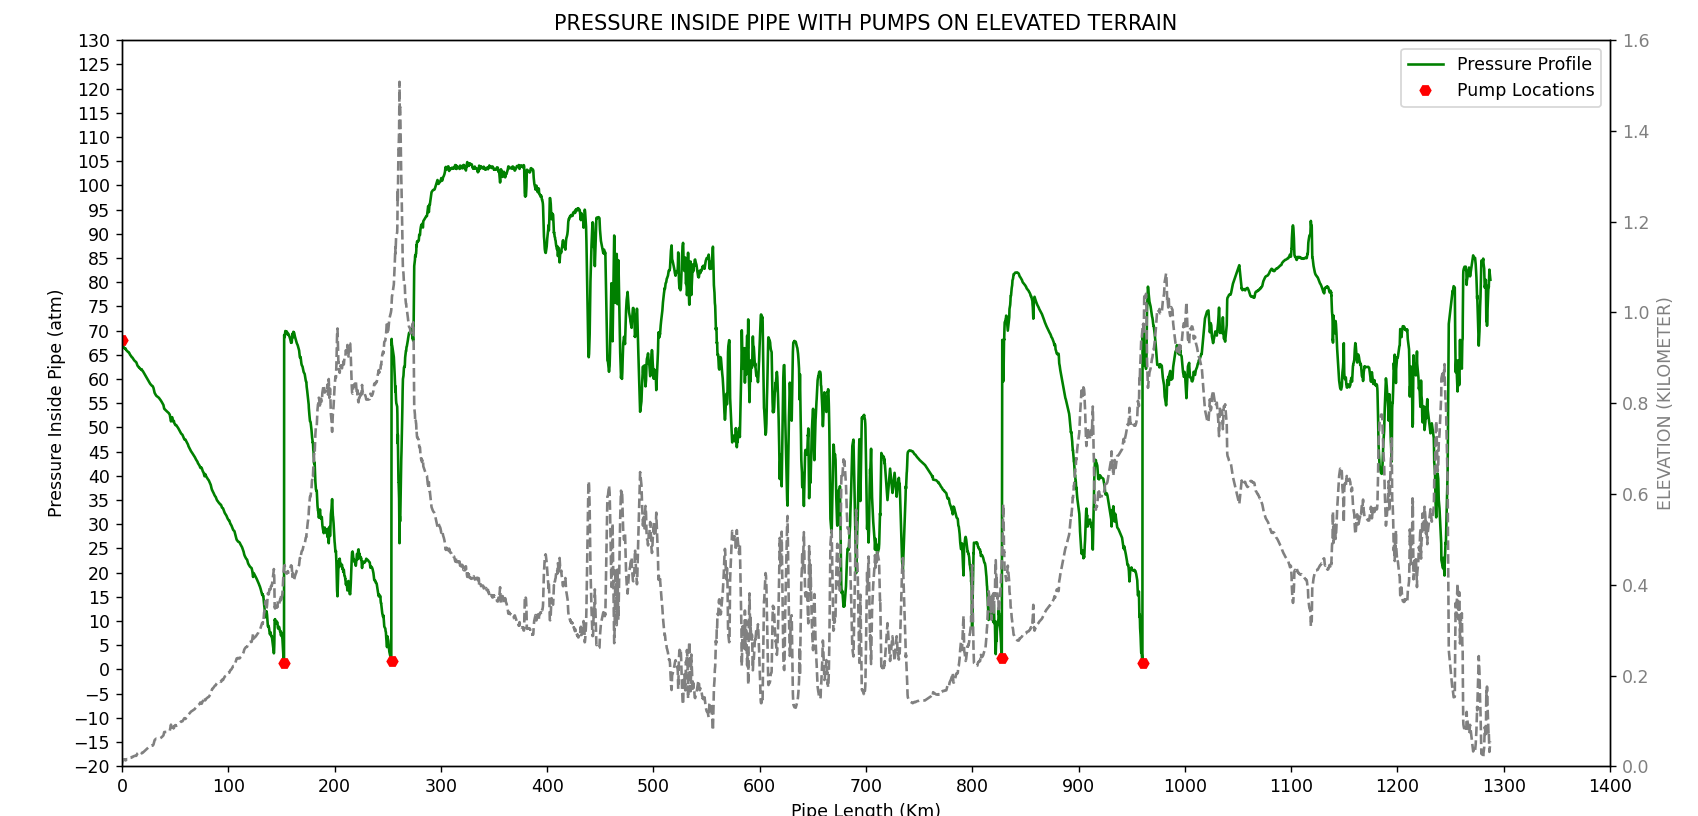
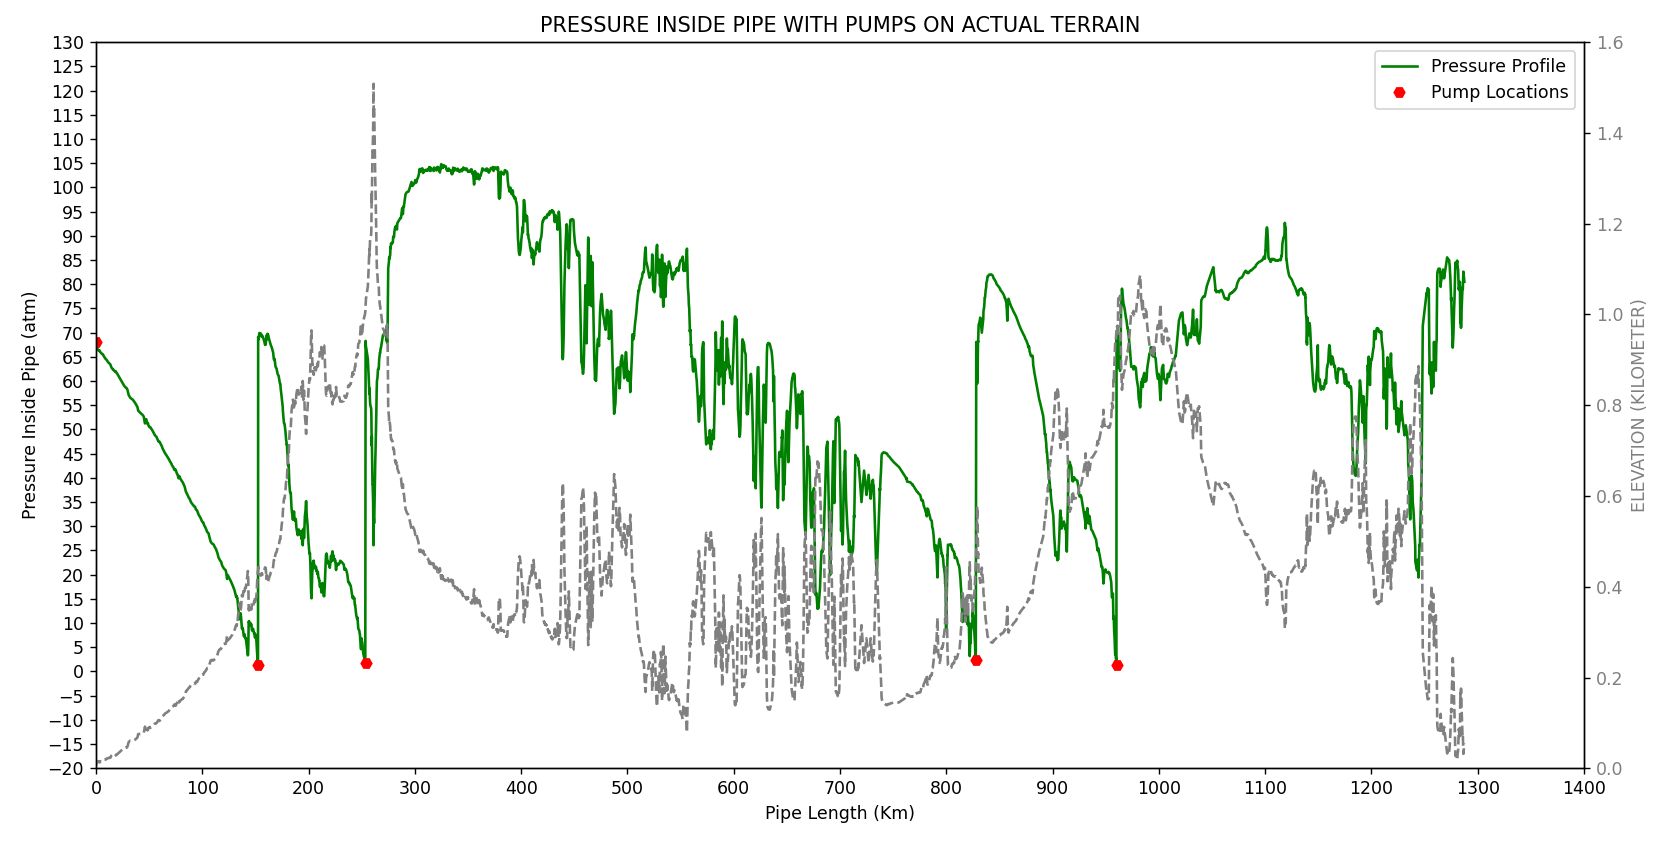
Actual terrian corrected

Changed region(s): [[0.0, 0.0, 0.9982, 1.0], [0.6239, 0.2757, 0.7798, 0.8272], [0.0936, 0.8272, 0.1248, 0.8578]]

diff --git a/Codes/ActualTerrainWithPump.py b/Codes/ActualTerrainWithPump.py
@@ -53,7 +53,7 @@ plt.gca().xaxis.set_major_locator(tk.MultipleLocator(100))
 plt.plot(X,Pump,"Hr")
 plt.xlabel("Pipe Length (Km)")      #setting labels
 plt.ylabel("Pressure Inside Pipe (atm)")#setting labels
-plt.title("PRESSURE INSIDE PIPE WITH PUMPS ON ELEVATED TERRAIN") #setting labels
+plt.title("PRESSURE INSIDE PIPE WITH PUMPS ON ACTUAL TERRAIN") #setting labels
 plt.legend(["Pressure Profile","Pump Locations"])
 ax2 = plt.gca().twinx()
 ax2.plot(X, Z,color="gray",linestyle="dashed", label="ELEVATION (In KM)")
@@ -70,4 +70,3 @@ df=df.fillna(0)
 df["Pump"]=df["Pump"].where(df["Pump"]==0,"ONE PUMP ADDED")
 print(df)
 df.to_excel("Pressure_Profile_With_Pump_ActualElevation.xlsx",index=False)
-print(P.max())
